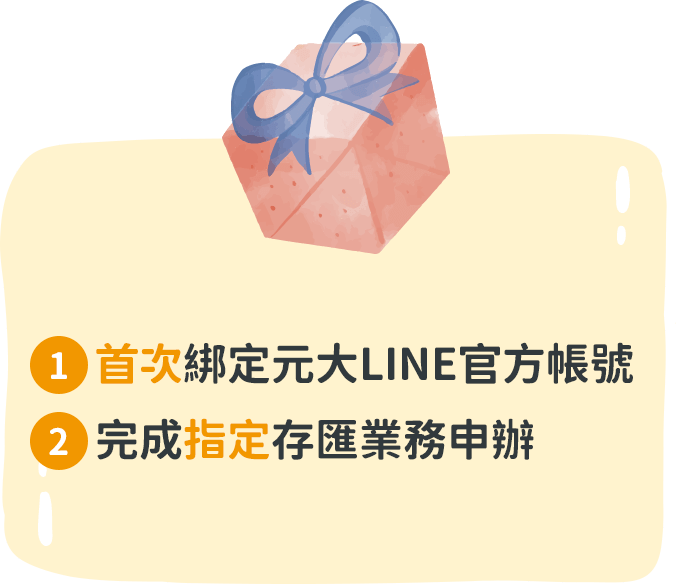
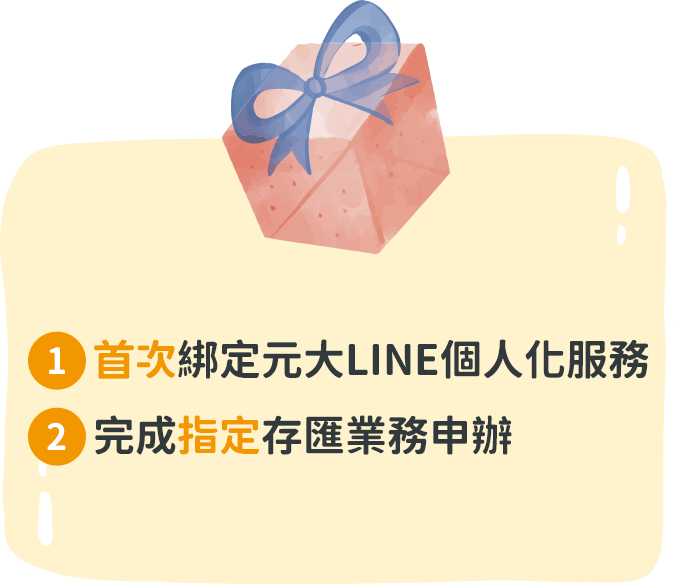
2

Changed region(s): [[0.0311, 0.5548, 0.963, 0.8014]]

diff --git a/teacher/index.html b/teacher/index.html
@@ -390,7 +390,7 @@ th {
                                             <table cellspacing="0" cellpadding="0" border="0" align="center">
                                                 <tr>
                                                     <td class="btnBox" valign="top">
-                                                        <a href="https://page.line.me/mwr3999i" target="_blank"><img class="btn-pic" src="images/cta1.png" alt="立即加入元大LINE官方帳號" border="0" width="200"/></a>
+                                                        <a href="https://www.yuantabank.com.tw/bankwebIMG/event/Bank_Act2021/LINEBC/" target="_blank"><img class="btn-pic" src="images/cta1.png" alt="立即綁定元大LINE個人化服務" border="0" width="200"/></a>
                                                     </td>
                                                 </tr>
                                             </table>
